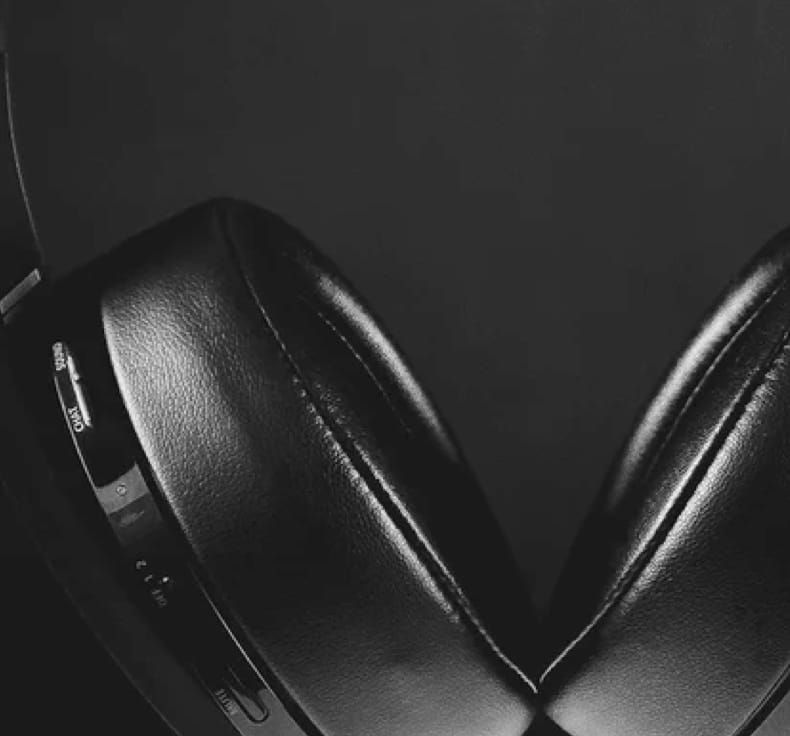
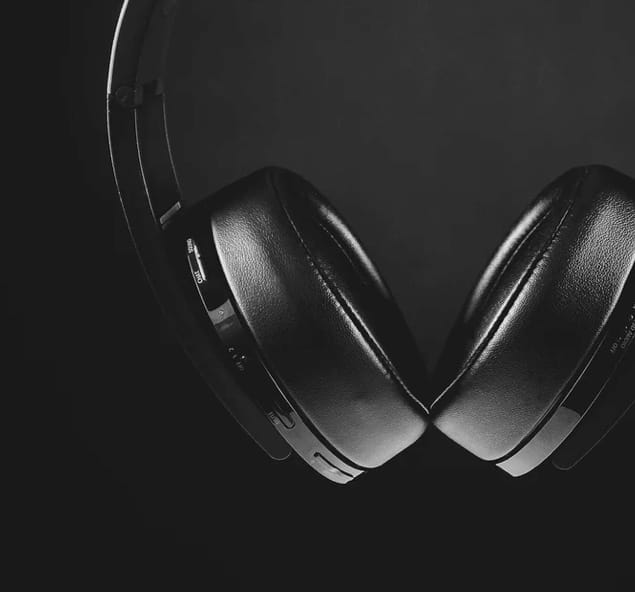
updated files

diff --git a/src/components/Feature.jsx b/src/components/Feature.jsx
@@ -1,51 +1,47 @@
 const Feature = () => {
   return (
-    <div className="mx-5 mb-20">
-      <h1 className="text-2xl tracking-wide font-semibold uppercase mb-5">
-        features
-      </h1>
-      <p className=" mb-8">
-        Featuring a genuine leather head strap and premium earcups, these
-        headphones deliver superior comfort for those who like to enjoy endless
-        listening. It includes intuitive controls designed for any situation.
-        Whether you’re taking a business call or just in your own personal
-        space, the auto on/off and pause features ensure that you’ll never miss
-        a beat. The advanced Active Noise Cancellation with built-in equalizer
-        allow you to experience your audio world on your terms. It lets you
-        enjoy your audio in peace, but quickly interact with your surroundings
-        when you need to. Combined with Bluetooth 5. 0 compliant connectivity
-        and 17 hour battery life, the XX99 Mark II headphones gives you superior
-        sound, cutting-edge technology, and a modern design aesthetic.
-      </p>
+    <div className=" w-full mb-52 gap-28 max-lg:block flex ">
+      <div className="max-w-large max-lg:max-w-full max-lg:mb-10">
+        <h1 className="text-3xl mb-5 tracking-wide font-semibold uppercase ">
+          features
+        </h1>
+        <p className="leading-6 max-md:mb-8">
+          Featuring a genuine leather head strap and premium earcups, these
+          headphones deliver superior comfort for those who like to enjoy
+          endless listening. It includes intuitive controls designed for any
+          situation. Whether you’re taking a business call or just in your own
+          personal space, the auto on/off and pause features ensure that you’ll
+          never miss a beat. The advanced Active Noise Cancellation with
+          built-in equalizer allow you to experience your audio world on your
+          terms. It lets you enjoy your audio in peace, but quickly interact
+          with your surroundings when you need to. Combined with Bluetoo. 0
+          compliant connectivity and 17 hour battery life, the XX99 Mark II
+          headphones gives you superior sound, cutting-edge technology, and a
+          modern design aesthetic.
+        </p>
+      </div>
 
-      <div className="flex text-sm  justify-between">
-        <h1 className="text-2xl tracking-wide font-semibold uppercase mb-5">
+      <div className="max-lg:flex max-sm:gap-10 gap-44 text-sm max-w-small  max-lg:max-w-full ">
+        <h1 className="text-3xl tracking-wide font-semibold uppercase  mb-5  ">
           in the box
         </h1>
 
         <div>
           <ul>
-            <li className="text-light ">
-              {" "}
+            <li className="text-light leading-6 ">
               <strong className="text-orange mr-5">1x</strong>Headphone unit
             </li>
-            <li className="text-light">
-              {" "}
-              <strong className="text-orange mr-5">2x</strong>Replacement
-              earcups
+            <li className="text-light leading-6">
+              <strong className="text-orange mr-5 ">2x</strong>Replacement earcups
             </li>
-            <li className="text-light">
-              {" "}
-              <strong className="text-orange mr-5">1x</strong>User manual
+            <li className="text-light leading-6">
+              <strong className="text-orange mr-5 ">1x</strong>User manual
             </li>
-            <li className="text-light">
-              {" "}
-              <strong className="text-orange mr-5">1x</strong>3.5mm 5m audio
-              cable
+            <li className="text-light leading-6">
+              <strong className="text-orange mr-5 ">1x</strong>3.5mm 5m audio cable
             </li>
-            <li className="text-light">
-              {" "}
-              <strong className="text-orange mr-5">1x</strong>Travel bag
+            <li className="text-light leading-6">
+              <strong className="text-orange mr-5 ">1x</strong>Travel bag
             </li>
           </ul>
         </div>

diff --git a/src/components/NavBar.jsx b/src/components/NavBar.jsx
@@ -6,8 +6,8 @@ const NavBar = () => {
 
   return (
     <header className="bg-black text-white ">
-      <nav className="flex justify-between px-10  max-md:py-8 items-center ">
-        <div className="flex justify-center items-center gap-8  overflow-hidden ">
+      <nav className=" container flex justify-between px-20  max-md:px-10 max-md:py-8 items-center ">
+        <div className="flex justify-center items-center max-md:gap-8 overflow-hidden ">
           <button>
             <img
               src="/images/Group.png"
@@ -22,21 +22,23 @@ const NavBar = () => {
           </div>
 
           <div
-            className={`max-md:absolute left-0 top-20  w-full bg-black ease-linear duration-75`}
+            className={`max-md:absolute left-0 top-20 max-md:pl-0 pl-16  w-full bg-black ease-linear duration-75`}
           >
             <ul
-              className={`flex max-md:block overflow-hidden ${toggle ? "max-md:h-3/5" : "max-md:h-0"} bg-black text-xs`}
+              className={`flex max-md:block overflow-hidden ${
+                toggle ? "max-md:h-3/5" : "max-md:h-0"
+              } bg-black text-xs`}
             >
-              <li className=" p-7  hover:bg-lightgray hover:text-orange">
+              <li className="li">
                 <Link to="/">HOME</Link>
               </li>
-              <li className=" p-7 hover:bg-lightgray hover:text-orange">
+              <li className="li">
                 <Link to="/headphones">HEADPHONES</Link>
               </li>
-              <li className=" p-7 hover:bg-lightgray hover:text-orange">
+              <li className="li">
                 <Link to="/speakers">SPEAKERS</Link>
               </li>
-              <li className=" p-7  hover:bg-lightgray hover:text-orange">
+              <li className="li">
                 <Link to="/earphones">EARPHONES</Link>
               </li>
             </ul>

diff --git a/src/components/Home.jsx b/src/components/Home.jsx
@@ -2,15 +2,15 @@ import { Link } from "react-router-dom";
 const Home = () => {
   return (
     <section className="w-full bg-lightgray ">
-      <div className=" w-full bg-[url('/images/home-img.jpg')] bg-no-repeat bg-cover  bg-center px-5  ">
-        <div className="text-white text-center px-10 py-44">
+      <div className=" container w-full bg-[url('/images/home-img.jpg')] bg-no-repeat bg-contain bg-right-top max-md:bg-cover max-md:bg-center ">
+        <div className="text-white max-md:text-center max-w-2xl text-left max-md:px-5 py-44 px-32 ">
           <h2 className="text-neutral-500  text-sm tracking-overWide mb-5 ">
             NEW PRODUCT
           </h2>
           <h1 className=" max-sm:text-4xl text-6xl  font-semibold   mb-5">
             XX99 MARK II HEADPHONES
           </h1>
-          <p className=" text-white text-2xl  mb-8 px-16">
+          <p className=" text-white max-w-96  max-md:max-w-2xl   mb-8 ">
             Experience natural, lifelike audio and exceptional build quality
             made for the passionate music enthusiast.
           </p>

diff --git a/src/components/Cart.jsx b/src/components/Cart.jsx
@@ -17,17 +17,21 @@ const Cart = () => {
   }
 
   return (
-    <div className=" mx-5 my-20">
-      <Link to={"/"} className=" text-light text-sm  ">
+    <div className="pt-10 mb-52 w-full ">
+      <Link to={"/"} className=" text-light text-sm">
         Go Back
       </Link>
-      <div className="flex justify-center items-center gap-6 mt-10">
-        <img src="/images/Hpage.jpg" alt="" className="w-1/2 rounded-sm" />
-        <div>
+      <div className="flex justify-center items-center max-md:flex-col gap-28  mt-10">
+        <img
+          src="/images/HeadPhone.jpg"
+          alt=""
+          className=" max-w-quartar max-md:max-w-full rounded-sm  "
+        />
+        <div className="max-w-medium  max-md:max-w-full    ">
           <h2 className="text-orange  text-xs tracking-overWide mb-5 ">
             NEW PRODUCT
           </h2>
-          <h1 className="text-2xl  font-semibold   mb-5">
+          <h1 className="text-5xl  font-semibold   mb-5">
             XX99 MARK II HEADPHONES
           </h1>
           <p className="  text-sm  mb-8 ">

diff --git a/src/components/ProductCover.jsx b/src/components/ProductCover.jsx
@@ -1,26 +1,26 @@
 const ProductCover = () => {
   return (
-    <div className="mx-5 mb-20">
-      <div className="grid grid-cols-2 gap-x-6  ">
-        <div>
-          <img
-            src="/images/ProductCover2.jpg"
-            alt=""
-            className="rounded-md  mb-4 
-    "
-          />
-          <img
-            src="/images/ProductCover3.jpg"
-            alt=""
-            className="rounded-md
-    "
-          />
-        </div>
+    <div className=" grid grid-cols-[repeat(2,minmax(0,1fr))]  gap-x-6  w-full mb-52   ">
+      <div>
+        <img
+          src="/images/ProductCover2.jpg"
+          alt=""
+          className="rounded-md  mb-4 
+          "
+        />
+        <img
+          src="/images/ProductCover3.jpg"
+          alt=""
+          className="rounded-md  
+             "
+        />
+      </div>
 
+      <div>
         <img
           src="/images/ProductCover1.jpg"
           alt=""
-          className="rounded-md h-56 mt-2"
+          className=" rounded-md h-full"
         />
       </div>
     </div>

diff --git a/src/pages/CartPage.jsx b/src/pages/CartPage.jsx
@@ -1,18 +1,16 @@
 import Equipments from "../components/Equipments";
 import Feature from "../components/Feature";
-import Footer from "../components/Footer";
 import Cart from "../components/Cart";
 import ProductCover from "../components/ProductCover";
 import ReferProducts from "../components/ReferProducts";
 const CartPage = () => {
   return (
-    <div>
+    <div className="container px-10">
       <Cart />
       <Feature />
       <ProductCover />
       <ReferProducts />
       <Equipments />
-      <Footer />
     </div>
   );
 };

diff --git a/src/index.css b/src/index.css
@@ -11,8 +11,7 @@ body {
   @apply bg-background;
 }
 img {
-  @apply max-w-full;
-  @apply my-0;
+ 
   @apply mx-auto;
   @apply h-auto;
   @apply block;
@@ -24,4 +23,12 @@ p {
   @apply text-light;
   @apply font-normal
   leading-5;
+}
+
+.container {
+  @apply my-0 mx-auto max-w-main;
+}
+
+.li {
+  @apply p-7 max-md:hover:bg-lightgray  hover:text-orange;
 }

diff --git a/tailwind.config.js b/tailwind.config.js
@@ -21,6 +21,16 @@ export default {
       letterSpacing: {
         overWide: "10px",
       },
+      maxWidth: {
+        main: "1190px",
+        half: "50%",
+        quartar: "45%",
+        medium: "55%",
+        large: "60%",
+        small: "40%",
+        imageone: "985px",
+        imagetwo: "460px",
+      },
     },
   },
   plugins: [],

diff --git a/src/Layout/MainLayout.jsx b/src/Layout/MainLayout.jsx
@@ -1,11 +1,13 @@
 import { Outlet } from "react-router-dom";
 import NavBar from "../components/NavBar";
+import Footer from "../components/Footer";
 
 const MainLayout = () => {
   return (
     <div>
       <NavBar />
       <Outlet />
+      <Footer/>
     </div>
   );
 };

diff --git a/src/pages/HomePage.jsx b/src/pages/HomePage.jsx
@@ -15,7 +15,6 @@ const HomePage = () => {
       <MainSpeaker />
       <MainEarphones />
       <Audio />
-      <Footer />
     </div>
   );
 };
